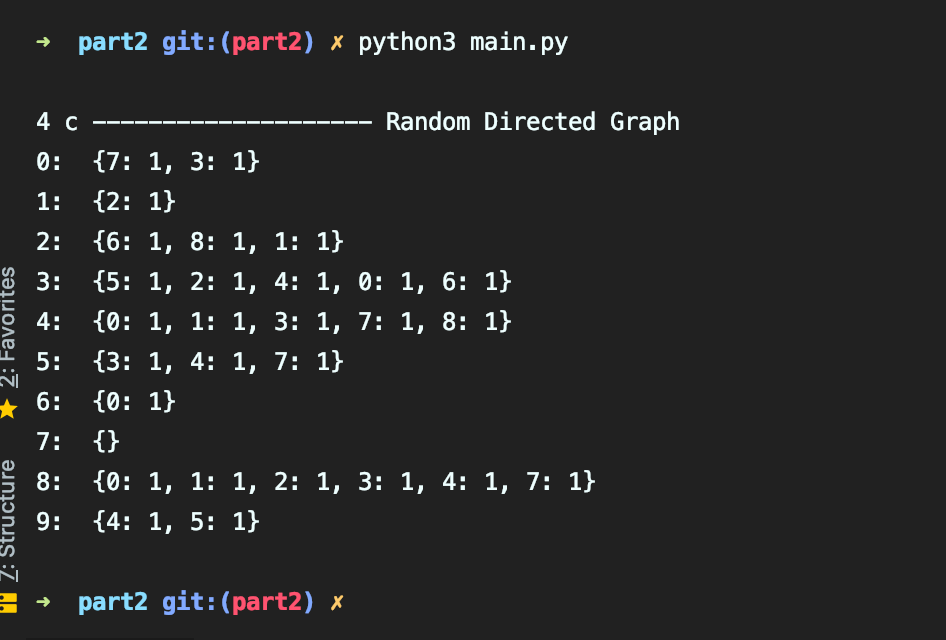
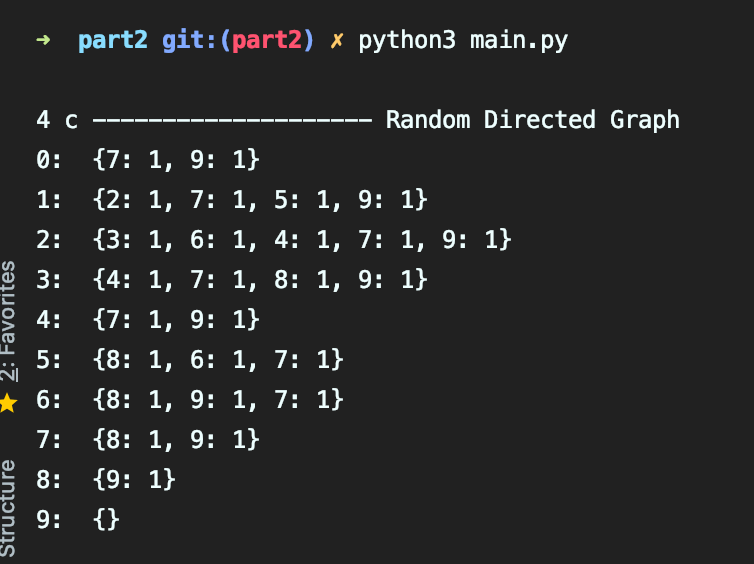
part 2 done

diff --git a/part2/topSort.py b/part2/topSort.py
@@ -6,8 +6,8 @@ class TopSort:
     @staticmethod
     def getIndegrees(graph):
         indegrees = [0] * len(graph.nodes)
-        for node in graph.nodes:
-            for nestedNode in graph.nodes[node]:
+        for node in graph.getAllNodes():
+            for nestedNode in graph.getNeighbors(node):
                 indegrees[nestedNode] += 1
         return indegrees
 
@@ -23,7 +23,7 @@ class TopSort:
         while queue:
             curr = queue.pop(0)
             kahnsSorted.append(curr)
-            for node in graph.nodes[curr]:
+            for node in graph.getNeighbors(curr):
                 indegrees[node] -= 1
                 if indegrees[node] == 0:
                     queue.append(node)
@@ -32,10 +32,27 @@ class TopSort:
 
     @staticmethod
     def mDFS(graph):
-        pass
+        stackSim = []
+        visited = set()
+        for node in graph.getAllNodes():
+            if node not in visited:
+                TopSort.DFSHelper(graph, node, stackSim, visited)
+        return stackSim[::-1]
+
+    @staticmethod
+    def DFSHelper(graph, node, stackSim, visited):
+        visited.add(node)
+        for nestedNode in graph.getNeighbors(node):
+            if nestedNode not in visited:
+                TopSort.DFSHelper(graph, nestedNode, stackSim, visited)
+        stackSim.append(node)
 
 if __name__ == '__main__':
     graph = Main.createRandomDAGIter(10)
     print(graph)
-    print(TopSort.getIndegrees(graph))
+    print('4 d -------------------- Kahn\'s Algorithm on above Graph')
     print(TopSort.Kahns(graph))
+    print()
+    print('4 e -------------------- mDFS on above Graph')
+    print(TopSort.mDFS(graph))
+    print()

diff --git a/part2/main.py b/part2/main.py
@@ -10,10 +10,14 @@ class Main:
         for num in nums:
             graph.addNode(num)
 
-        for node in graph.nodes:
-            for i in range(node + 1, n):
-                if random.randint(0, 1):
-                    graph.addDirectedEdge(node, i)
+        for node in graph.getAllNodes():
+            numNodes = random.randint(0, n - node)
+            numsAdded = set()
+            while len(numsAdded) != numNodes:
+                num = random.randint(node + 1, n)
+                if num not in numsAdded:
+                    numsAdded.add(num)
+                    graph.addDirectedEdge(node, num)
 
         return graph
 

diff --git a/part2/directedGraph.py b/part2/directedGraph.py
@@ -28,9 +28,8 @@ class DirectedGraph:
     def getAllNodes(self):
         return set(self.nodes)
 
-    @staticmethod
-    def getNeighbors(node):
-        return
+    def getNeighbors(self, node):
+        return self.nodes[node]
 
     def __str__(self):
         s = ''
